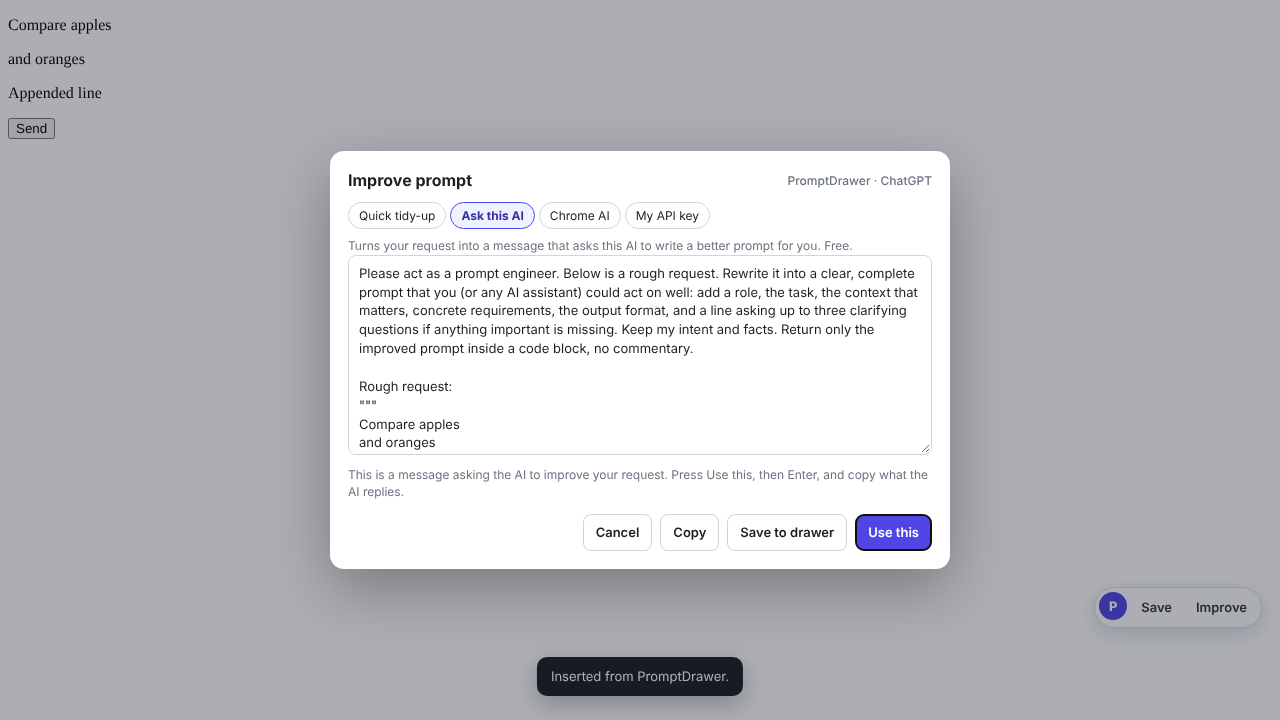
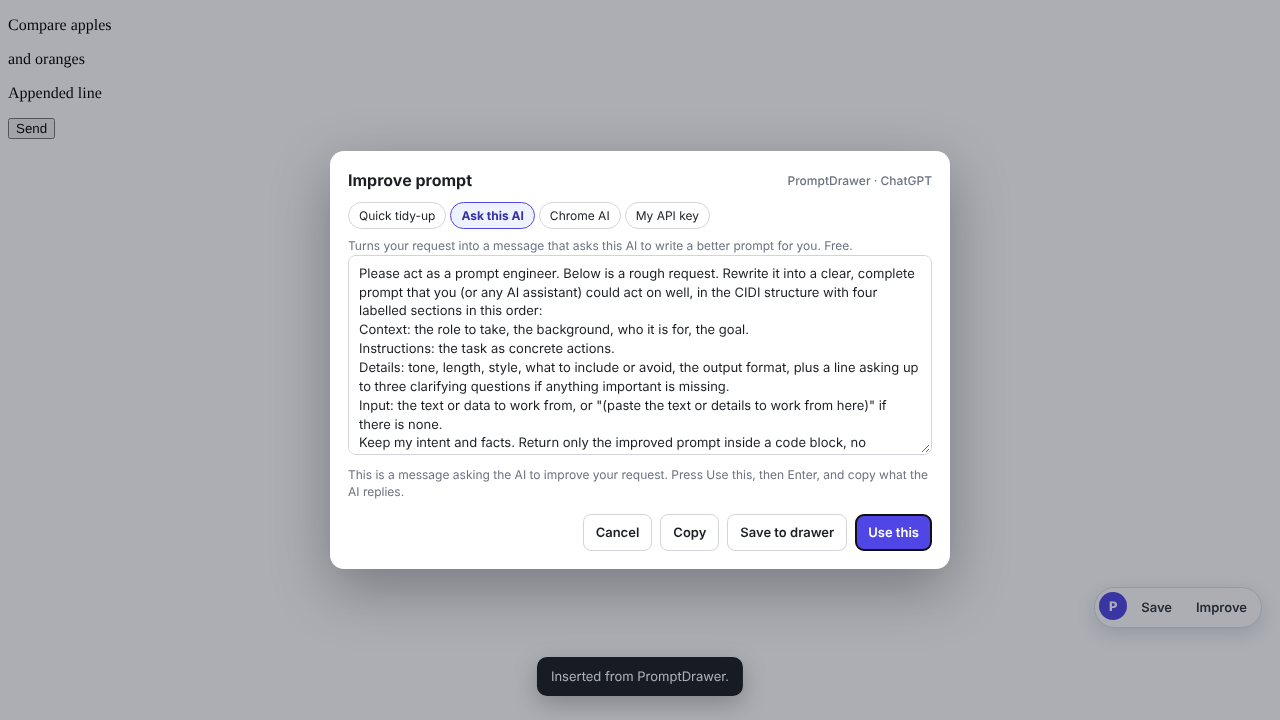
PromptDrawer 0.2.2: Improve writes prompts in the CIDI shape
Context, Instructions, Details, Input: the same four labels from the
tidy-up engine, the in-chat meta-prompt and the system prompt used by
Chrome's built-in AI and BYOK. Adds an explicit Input slot. Tests check
label order (42/42).

Claude-Session: https://claude.ai/code/session_015YnbzfmCKe8WDjDXpELoHY

Changed region(s): [[0.2812, 0.3972, 0.7188, 0.6417]]

diff --git a/lib/improver.js b/lib/improver.js
@@ -4,13 +4,26 @@
 //            talking to turns into a better prompt. Zero cost.
 //  - nano / byok: handled in engines.js; they use SYSTEM_PROMPT below.
 
-export const SYSTEM_PROMPT = `You are a prompt engineer. Rewrite the user's rough request into a clear, complete prompt that an AI assistant can act on well.
-Keep the person's intent and any facts they gave. Add: a role, the task, the context that matters, concrete requirements, the output format, and a line telling the assistant to ask up to three clarifying questions if something important is missing.
-Write in the same language as the request. Return only the improved prompt, no commentary.`;
+// Every engine writes the improved prompt in the CIDI shape:
+//   Context, Instructions, Details, Input. Same four labels everywhere, so
+//   people learn the framework just by reading what Improve gives them.
+export const CIDI = ['Context', 'Instructions', 'Details', 'Input'];
+
+export const SYSTEM_PROMPT = `You are a prompt engineer. Rewrite the user's rough request into a clear, complete prompt that an AI assistant can act on well. Use the CIDI structure: four labelled sections, in this order.
+Context: who the assistant should be (a role), the background, who the result is for, and the goal.
+Instructions: the task itself as concrete actions (write, summarise, compare, list...).
+Details: constraints and preferences: tone, length, style, what to include or avoid, the output format, and a line telling the assistant to ask up to three clarifying questions if something important is missing.
+Input: the text, data or material the assistant should work from. If the request contains none, write "(paste the text or details to work from here)".
+Keep the person's intent and any facts they gave. Write in the same language as the request. Return only the improved prompt, no commentary.`;
 
 export function buildMetaPrompt(rough, context = '') {
-  const extra = context.trim() ? `\n\nBackground you should fold into the improved prompt (keep the facts, do not drop them):\n"""\n${context.trim()}\n"""` : '';
-  return `Please act as a prompt engineer. Below is a rough request. Rewrite it into a clear, complete prompt that you (or any AI assistant) could act on well: add a role, the task, the context that matters, concrete requirements, the output format, and a line asking up to three clarifying questions if anything important is missing. Keep my intent and facts. Return only the improved prompt inside a code block, no commentary.
+  const extra = context.trim() ? `\n\nBackground you should fold into the Context section (keep the facts, do not drop them):\n"""\n${context.trim()}\n"""` : '';
+  return `Please act as a prompt engineer. Below is a rough request. Rewrite it into a clear, complete prompt that you (or any AI assistant) could act on well, in the CIDI structure with four labelled sections in this order:
+Context: the role to take, the background, who it is for, the goal.
+Instructions: the task as concrete actions.
+Details: tone, length, style, what to include or avoid, the output format, plus a line asking up to three clarifying questions if anything important is missing.
+Input: the text or data to work from, or "(paste the text or details to work from here)" if there is none.
+Keep my intent and facts. Return only the improved prompt inside a code block, no commentary.
 
 Rough request:
 """
@@ -78,21 +91,22 @@ export function localImprove(rough, { aboutMe = '', project = '' } = {}) {
   const format = pick(FORMATS, text, 'Clear headings or short paragraphs. Keep it as short as the task allows.');
   const tone = pick(TONES, text, '');
   const lines = [];
-  lines.push(`Role: You are a ${role}.`);
+  lines.push(`Context: You are a ${role}.`);
+  if (project.trim()) lines.push(project.trim());
+  if (aboutMe.trim()) { lines.push('About me:'); lines.push(aboutMe.trim()); }
   lines.push('');
-  lines.push(`Task: ${clean(text)}`);
+  lines.push(`Instructions: ${clean(text)}`);
   lines.push('');
-  if (project.trim()) { lines.push(project.trim()); lines.push(''); }
-  if (aboutMe.trim()) { lines.push('About me:'); lines.push(aboutMe.trim()); lines.push(''); }
-  lines.push('Requirements:');
+  lines.push('Details:');
   lines.push('- Be specific and concrete. Use real examples rather than generalities.');
   lines.push('- Do not pad. Leave out caveats and introductions I did not ask for.');
   if (tone) lines.push(`- Tone: ${tone}.`);
   lines.push('- If a fact is uncertain, say so instead of guessing.');
+  lines.push(`- Output format: ${format}`);
+  lines.push('- Before you answer: if anything important is missing or ambiguous, ask me up to three short clarifying questions first. Otherwise, go ahead.');
   lines.push('');
-  lines.push(`Output format: ${format}`);
-  lines.push('');
-  lines.push('Before you answer: if anything important is missing or ambiguous, ask me up to three short clarifying questions first. Otherwise, go ahead.');
+  lines.push('Input:');
+  lines.push('(paste the text, notes or data to work from here, if any)');
   return lines.join('\n');
 }
 
@@ -107,7 +121,7 @@ export function describeEngine(engine) {
 
 // One line each, shown under the engine picker so people know what to expect.
 export const ENGINE_HELP = {
-  local: 'Wraps your request in a clear structure (role, task, format). No AI involved, so it never rewrites your words.',
+  local: 'Wraps your request in the CIDI structure (Context, Instructions, Details, Input). No AI involved, so it never rewrites your words.',
   inchat: 'Turns your request into a message that asks this AI to write a better prompt. Press send, copy the result.',
   nano: "Uses the small AI model built into Chrome, on your device. Needs Chrome 138+; the first run downloads the model.",
   byok: 'Sends your request to Anthropic, OpenAI or Google using a key you paste in Settings. Best quality.',

diff --git a/side-panel.html b/side-panel.html
@@ -29,7 +29,7 @@
 </section>
 
 <section id="improve" class="improve" aria-label="Improve a prompt">
-  <p class="lead">Type a rough request. PromptDrawer turns it into a prompt the AI can act on well.</p>
+  <p class="lead">Type a rough request. PromptDrawer turns it into a CIDI prompt (Context, Instructions, Details, Input) the AI can act on well.</p>
   <label for="imp-in">Your rough request</label>
   <textarea id="imp-in" placeholder="e.g. write an email to my landlord about the broken heater"></textarea>
   <div class="row-btns">

diff --git a/welcome.html b/welcome.html
@@ -46,7 +46,7 @@
 
 <section class="section try" aria-labelledby="h-try">
   <h2 id="h-try">Try it now, right here</h2>
-  <p>No AI tab needed. Type a rough request and press Improve.</p>
+  <p>No AI tab needed. Type a rough request and press Improve. The result follows CIDI: Context, Instructions, Details, Input.</p>
   <label for="try-in">Your rough request</label>
   <textarea id="try-in">write an email to my landlord about the broken heater, friendly but firm</textarea>
   <label for="try-engine">How to improve it</label>

diff --git a/README.md b/README.md
@@ -4,7 +4,7 @@
 
 - **Save** what you are typing with `Alt+S` (or the small toolbar, or the right-click menu).
 - **Insert** any saved prompt into the chat you have open. `{{blanks}}` get filled in as you go.
-- **Improve** a rough line with `Alt+I`: see a before/after diff, press *Use this*, and *Undo* if you change your mind. Works offline (instant structure), or asks the AI you are already talking to (free), or uses Chrome's on-device model or your own API key (Pro).
+- **Improve** a rough line with `Alt+I` into a CIDI prompt (Context, Instructions, Details, Input): see a before/after diff, press *Use this*, and *Undo* if you change your mind. Works offline (instant structure), or asks the AI you are already talking to (free), or uses Chrome's on-device model or your own API key (Pro).
 - **Projects**: a reusable brief (context + instructions) that Improve folds into every rewrite, in every AI. One click to brief a new chat; `{{project}}` inside any saved prompt. Two free, unlimited with Pro.
 - **Ask all three**: send one prompt to every open AI tab and compare the answers (Pro).
 - **Folders, tags, favourites, search, version history, JSON/Markdown export**, three starter packs.

diff --git a/CHANGELOG.md b/CHANGELOG.md
@@ -1,5 +1,9 @@
 # Changelog
 
+## 0.2.2 (2026-11-02)
+
+- Improve now writes every prompt in the **CIDI** shape: Context, Instructions, Details, Input. Same four labels on all four engines (tidy-up, ask-the-AI, Chrome built-in AI, own key), so the structure is easy to learn and the AI gets a clear Input slot for the text or data to work from.
+
 ## 0.2.1 (2026-11-02)
 
 - Two chat boxes on one page (Claude's project chat beside a thread): inserts now go to the box you are in or used last, not the first one on the page. If neither has been used yet, PromptDrawer picks the last one and says so in the toast.
